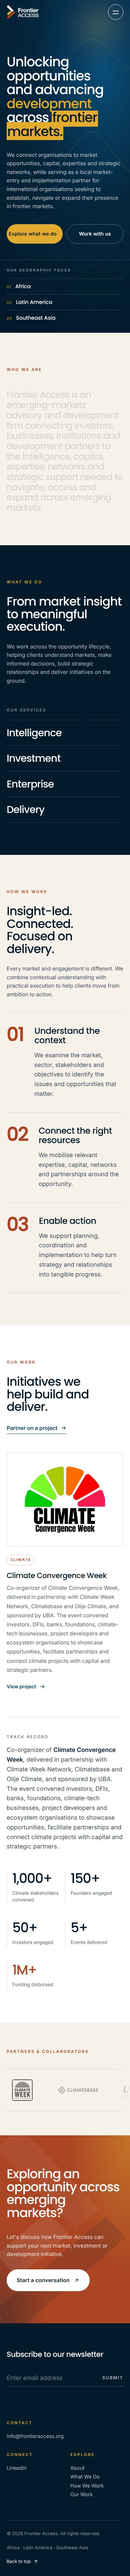
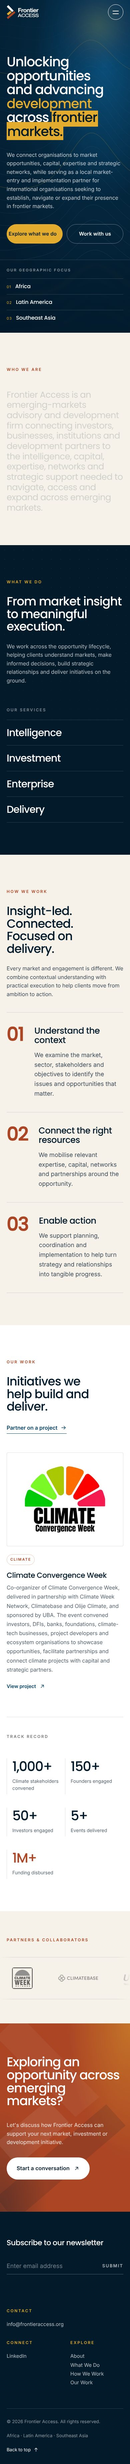
Link the CCW project to its website; drop repeated track record copy
- The Climate Convergence Week card now opens
  www.climateconvergenceweek.com in a new tab.
- Track record keeps its label and figures; the paragraph that repeated
  the project description is removed.

Claude-Session: https://claude.ai/code/session_013iMuxdDqZ6bm7NfrpEJfTy

Changed region(s): [[0.0, 0.0, 1.0, 0.9653], [0.5231, 0.9342, 0.7385, 0.9965]]

diff --git a/index.html b/index.html
@@ -244,7 +244,7 @@
         </div>
 
         <div class="work-grid is-single">
-          <a class="project project--feature" href="#contact" data-reveal>
+          <a class="project project--feature" href="https://www.climateconvergenceweek.com" target="_blank" rel="noopener" data-reveal>
             <div class="project-media project-media--logo">
               <img src="assets/work/climate-convergence-week.jpg" alt="Climate Convergence Week logo" width="720" height="580" decoding="async" />
             </div>
@@ -252,7 +252,7 @@
               <span class="tag">Climate</span>
               <h3>Climate Convergence Week</h3>
               <p>Co-organizer of Climate Convergence Week, delivered in partnership with Climate Week Network, Climatebase and Olije Climate, and sponsored by UBA. The event convened investors, DFIs, banks, foundations, climate-tech businesses, project developers and ecosystem organisations to showcase opportunities, facilitate partnerships and connect climate projects with capital and strategic partners.</p>
-              <span class="project-link">View project <svg aria-hidden="true"><use href="#arrow" /></svg></span>
+              <span class="project-link">View project <svg aria-hidden="true"><use href="#arrow-ne" /></svg><span class="sr-only"> (opens climateconvergenceweek.com in a new tab)</span></span>
             </div>
           </a>
         </div>
@@ -261,7 +261,6 @@
         <div class="track">
           <div class="track-head" data-reveal>
             <p class="list-label">Track record</p>
-            <p class="track-intro">Co-organizer of <strong>Climate Convergence Week</strong>, delivered in partnership with Climate Week Network, Climatebase and Olije Climate, and sponsored by UBA. The event convened investors, DFIs, banks, foundations, climate-tech businesses, project developers and ecosystem organisations to showcase opportunities, facilitate partnerships and connect climate projects with capital and strategic partners.</p>
           </div>
           <dl class="stats">
             <div class="stat" data-reveal><dt><span data-count="1000">0</span>+</dt><dd>Climate stakeholders convened</dd></div>

diff --git a/styles.css b/styles.css
@@ -358,9 +358,6 @@ body.menu-open .mobile-menu li:nth-child(5) a { transition-delay: .44s; }
 
 .track { margin-top: clamp(80px, 10vw, 144px); padding-top: 48px; border-top: 1px solid var(--line); display: grid; grid-template-columns: 1fr; gap: 56px; }
 .track-head { display: grid; grid-template-columns: 1fr 2fr; gap: clamp(32px, 6vw, 96px); align-items: start; }
-.track-head .track-intro { margin-top: 0; max-width: 60ch; font-size: 18px; }
-.track-intro { margin-top: 18px; font-size: 16px; color: #3d4b57; }
-.track-intro strong { color: var(--navy-ink); font-weight: 600; }
 .stats { display: grid; grid-template-columns: repeat(5, 1fr); gap: 0; }
 .stat { padding: 4px 24px 8px; border-left: 1px solid var(--line); }
 .stat dt { font-family: var(--f-head); font-weight: 500; font-size: clamp(40px, 4.6vw, 72px); line-height: 1; letter-spacing: -.04em; color: var(--navy-ink); font-variant-numeric: tabular-nums; }
